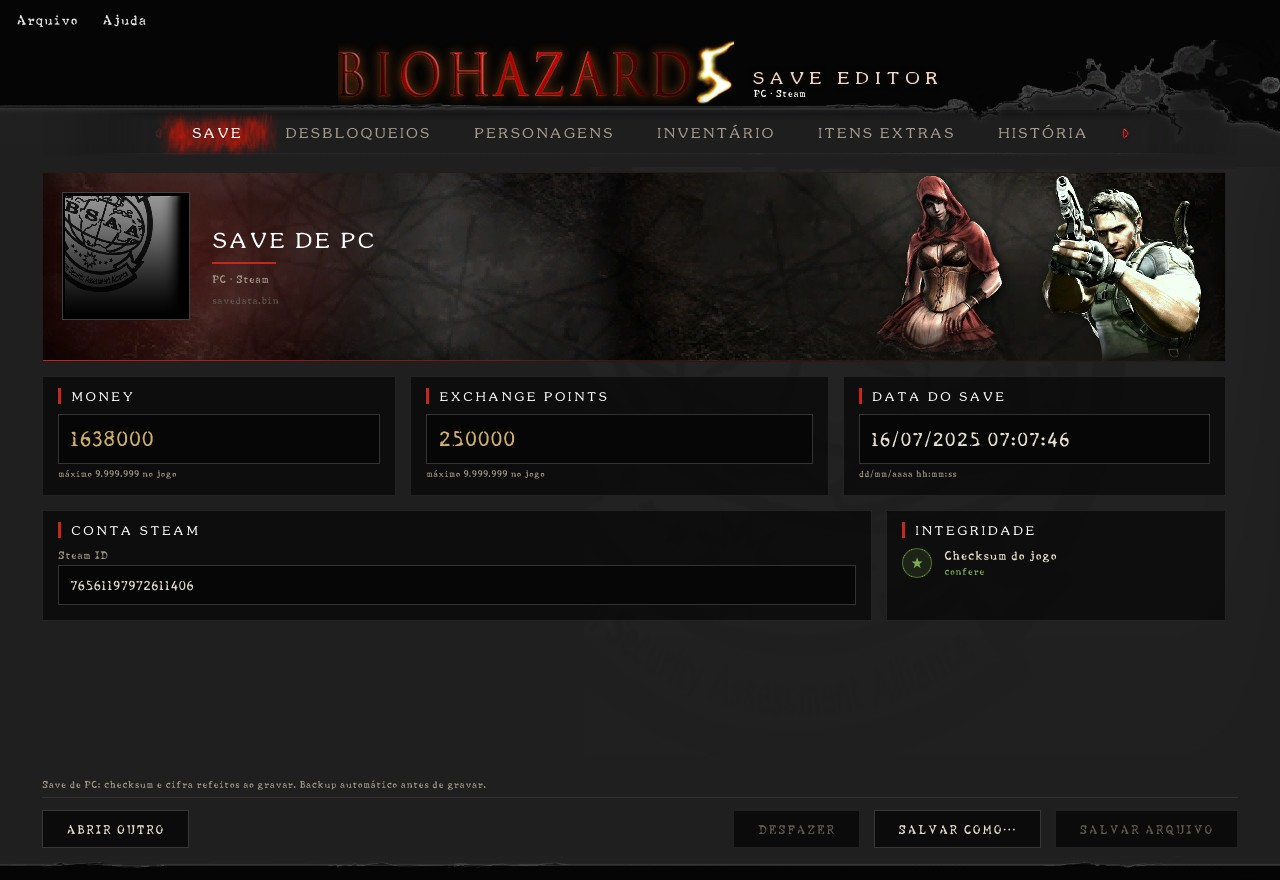
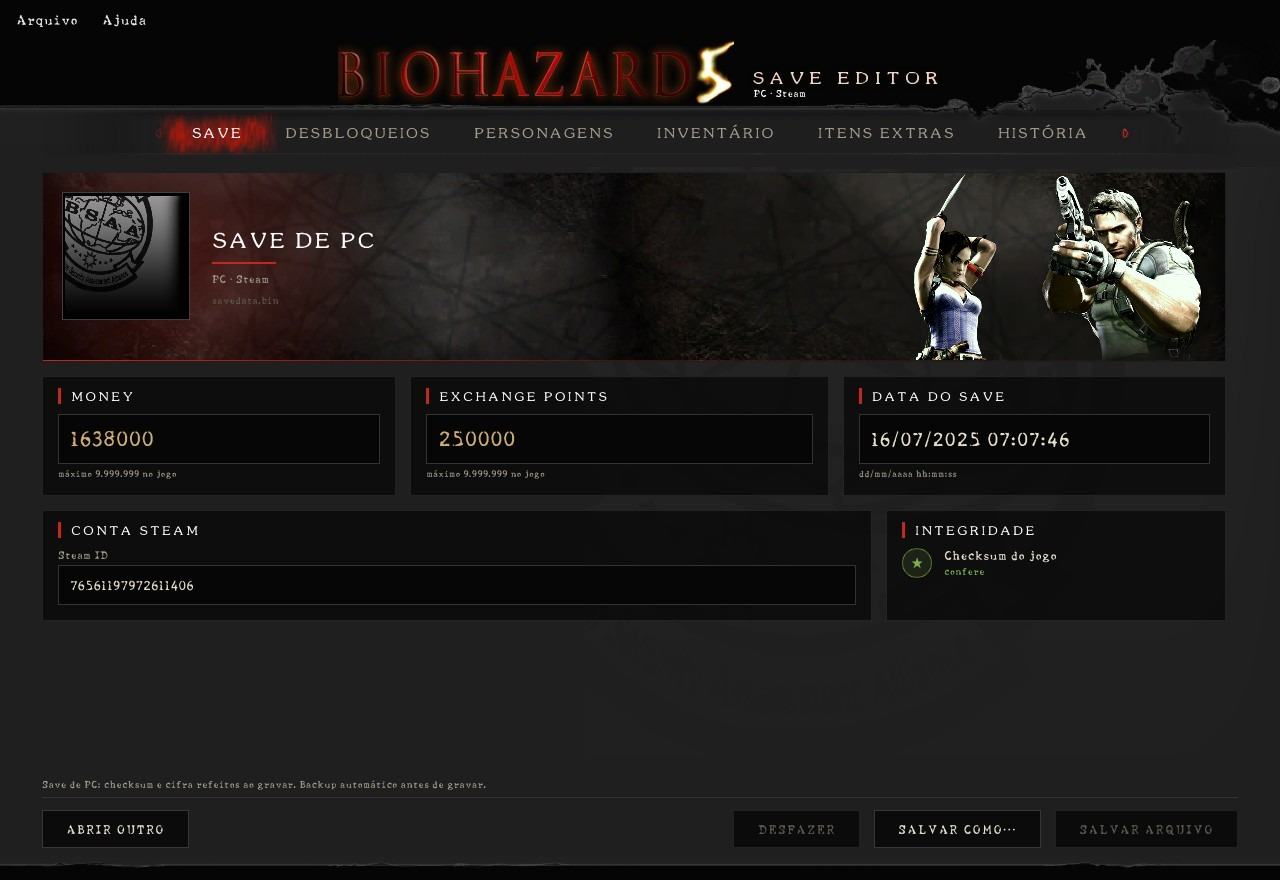
Aba Save: Sheva do Mercenaries na faixa do topo

Changed region(s): [[0.6875, 0.1841, 0.7812, 0.4295]]

diff --git a/CHANGELOG.md b/CHANGELOG.md
@@ -12,6 +12,8 @@ Primeira versão.
 ### Correções depois do lançamento
 As correções entram na própria 1.0.0 (o download da release é atualizado).
 
+- **24/10 — Arte da aba Save:** a faixa do topo mostra a Sheva do
+  The Mercenaries com a faca, no lugar da Sheva de capuz vermelho.
 - **22/10 — Save corrompido no Xbox 360 depois de ativar a munição infinita
   no jogo:** ao ligar o modo, o jogo grava um valor numa área que o editor
   deixava fora do checksum, e o save editado aparecia como corrompido. No
